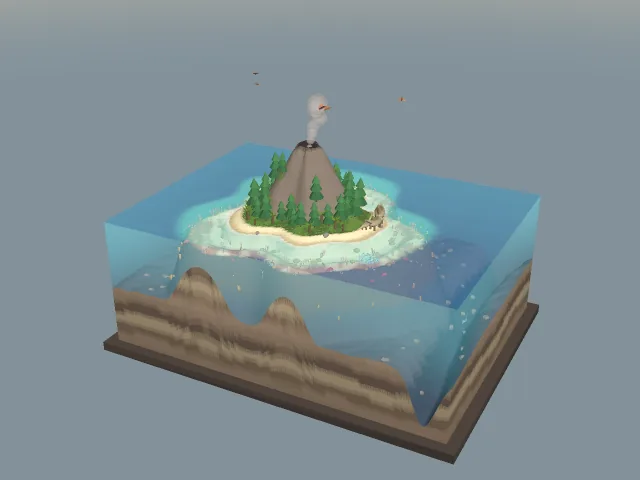
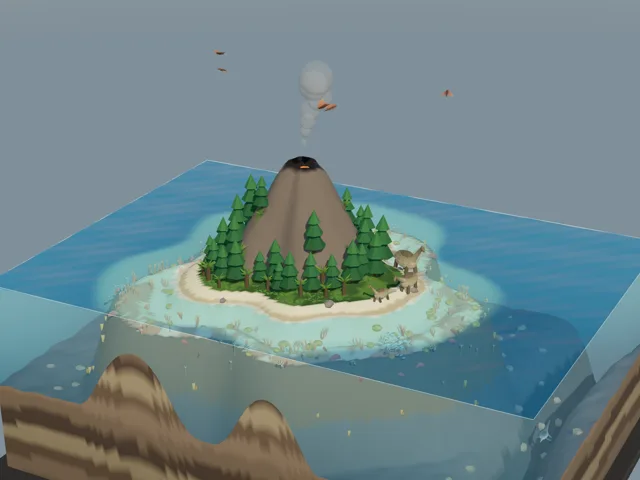
prehistoric-island: fix crater, beach and trench views after real-GPU review
On a real GPU (Apple M4, Chrome) the first browser-check run passed 44 of 45;
the lava check failed because the lava really could not be seen.

- Crater: the pool sat 0.7 m above a 7 m deep bowl and the camera looked in at
  24 degrees, so only a sliver showed, under the lowest smoke puff. Lava now
  floods the floor 2.6 m up (still 1.4 m below the lowest rim), smoke starts
  above the rim, the shot looks in at about 50 degrees. Emissive #ff5a1a x2.8
  washed out to pale apricot under ACES; now #ff4400 x2.0 (reads 255,147,68).
- Beach: the three plant-eaters swung +-0.26 rad on different phases with
  0.1 rad between them and walked into one another. Now about 11 m apart,
  nearly in step, +-0.18 rad.
- Trench: the shot was mostly the bank's cut face. It now looks down the
  trench from above the water off the front-right corner; the swimmer is in
  frame and the front-cut subject stays in the safe zone.
- Cover replaced with a real-GPU screenshot; SPEC records measured draw calls
  (56-64) and frame rate (60 fps desktop and phone viewport, headless).

diff --git a/prehistoric-island/src/core.js b/prehistoric-island/src/core.js
@@ -127,11 +127,12 @@ export function crown(p) {
 // ---- Creatures (all schematic shapes; loops close every CYCLE seconds) ----
 const TAU = Math.PI * 2;
 // Herd: three long-necked plant-eaters walking slowly up and down the east beach.
-export const HERD = [{ s: 0.9, th0: -0.28, size: 1.0, lag: 0 }, { s: 0.93, th0: -0.18, size: 0.8, lag: 0.7 }, { s: 0.88, th0: -0.08, size: 0.55, lag: 1.3 }];
+// Spaced about 11 m apart along the shore and walking nearly in step, so the three never run into one another.
+export const HERD = [{ s: 0.9, th0: -0.44, size: 1.0, lag: 0 }, { s: 0.92, th0: -0.10, size: 0.8, lag: 0.08 }, { s: 0.89, th0: 0.24, size: 0.55, lag: 0.16 }];
 const herdPoint = (th, s) => { const r = coastRadius(th) * s; return [ISLAND.cx + r * Math.cos(th), ISLAND.cz + r * Math.sin(th)]; };
 export function herdAt(i, t) {
   const a = HERD[i], w = Math.sin(TAU * mod(t) / CYCLE + a.lag);    // there and back once a cycle
-  const th = a.th0 + 0.26 * w, dir = Math.cos(TAU * mod(t) / CYCLE + a.lag) >= 0 ? 1 : -1;
+  const th = a.th0 + 0.18 * w, dir = Math.cos(TAU * mod(t) / CYCLE + a.lag) >= 0 ? 1 : -1;
   const [x, z] = herdPoint(th, a.s), [x2, z2] = herdPoint(th + 0.01 * dir, a.s);
   const heading = Math.atan2(z2 - z, x2 - x);
   const step = TAU * mod(t) / 1.6 + i;                                  // stride phase
@@ -139,7 +140,7 @@ export function herdAt(i, t) {
 }
 function nearHerdWalk(x, z) {
   let d = Infinity;
-  for (const a of HERD) for (let th = a.th0 - 0.32; th <= a.th0 + 0.32; th += 0.04) { const [hx, hz] = herdPoint(th, a.s); d = Math.min(d, Math.hypot(hx - x, hz - z)); }
+  for (const a of HERD) for (let th = a.th0 - 0.24; th <= a.th0 + 0.24; th += 0.04) { const [hx, hz] = herdPoint(th, a.s); d = Math.min(d, Math.hypot(hx - x, hz - z)); }
   return d;
 }
 // Flyers: five gliding reptiles circling the volcano.
@@ -236,7 +237,9 @@ export const shotPose = {
   },
   trench(t, aspect, u) {
     const k = tall(aspect);
-    return { position: [70 - 6 * u, -28 + 2 * k, 124 + 18 * k], target: [74, -49 + 2 * k, 10], up: Y, fov: widen(40, aspect, 56) };
+    // From above the water off the front-right corner, looking down the trench as it runs back into the block,
+    // so the trench and its swimmer fill the frame instead of the cut face of the bank beside it.
+    return { position: [128 - 8 * u, 18 + 4 * k, 104 + 18 * k], target: [80, -56 + 2 * k, 18], up: Y, fov: widen(42, aspect, 58) };
   },
   beach(t, aspect, u) {
     // Out over the lagoon east of the beach, low, looking up the shore at the herd with the forest and cone behind.
@@ -245,8 +248,9 @@ export const shotPose = {
     return { position, target: [lead[0] - 6, lead[1] + 6 + 3 * k, lead[2] - 2], up: Y, fov: widen(42, aspect, 58) };
   },
   summit(t, aspect, u) {
-    const k = tall(aspect), target = [CRATER[0] + 4, CRATER[1] + 6 - 2 * k, CRATER[2] + 6];
-    return { position: around((118 + 14 * u) * D, (24 + 4 * k) * D, 112 + 30 * k, target), target, up: Y, fov: widen(40, aspect, 56) };
+    // Steep enough to see down into the 7 m deep crater and its lava pool; a low angle only shows the rim.
+    const k = tall(aspect), target = [CRATER[0] + 2, CRATER[1] + 3 - 2 * k, CRATER[2] + 4];
+    return { position: around((118 + 14 * u) * D, (50 + 4 * k) * D, 96 + 30 * k, target), target, up: Y, fov: widen(40, aspect, 56) };
   },
 };
 export function shotPoseAt(key, t, aspect) {

diff --git a/prehistoric-island/src/world.js b/prehistoric-island/src/world.js
@@ -317,8 +317,10 @@ export function buildIsland(seed = 7) {
   const water = buildWater(); root.add(water.surface, ...water.walls, water.line);
 
   // Crater: lava pool and smoke.
-  const lavaY = height(CRATER[0], CRATER[2]) + 0.7;
-  const lava = mesh('lava', 'lava', 'emissive', new THREE.CircleGeometry(2.9, 18).rotateX(-Math.PI / 2).translate(CRATER[0], lavaY, CRATER[2]), new THREE.MeshStandardMaterial({ color: '#100604', emissive: '#ff5a1a', emissiveIntensity: 2.8, roughness: 0.6 }));
+  // The crater is a bowl (floor 34.6 m, 37.7 m at 3 m out, rim 38.6 m at its lowest): 2.6 m of lava floods the floor
+  // about 2.5 m out and the bowl walls trim the disc's edge, still well below the rim.
+  const lavaY = height(CRATER[0], CRATER[2]) + 2.6;
+  const lava = mesh('lava', 'lava', 'emissive', new THREE.CircleGeometry(3.4, 20).rotateX(-Math.PI / 2).translate(CRATER[0], lavaY, CRATER[2]), new THREE.MeshStandardMaterial({ color: '#100604', emissive: '#ff4400', emissiveIntensity: 2.0, roughness: 0.6 }));
   const smoke = instanced('smoke', 'smoke', 'air', new THREE.IcosahedronGeometry(1, 1), new THREE.MeshStandardMaterial({ color: '#a8a199', roughness: 1, transparent: true, opacity: 0.3, depthWrite: false }), 7);
   smoke.renderOrder = 4;
   root.add(lava, smoke);
@@ -359,10 +361,10 @@ export function buildIsland(seed = 7) {
     // Waves (only near the surface; the island hides the water under it).
     for (let i = 0; i < surfPos.count; i++) surfPos.setY(i, WATER + waveAt(surfPos.getX(i), surfPos.getZ(i), t));
     surfPos.needsUpdate = true; water.surface.geometry.computeVertexNormals();
-    // Smoke: seven puffs on staggered loops of 7 s.
+    // Smoke: seven puffs on staggered loops of 7 s, born above the rim so they never sit on the lava.
     for (let k = 0; k < 7; k++) {
-      const u = mod(t / 7 + k / 7, 1), r = lerp(1.6, 6.5, u);
-      place(smoke, k, [CRATER[0] + 3 * u * Math.sin(k * 2.1) + 6 * u, lavaY + 2 + 28 * u, CRATER[2] + 3 * u * Math.cos(k * 2.1) - 2 * u], k, r);
+      const u = mod(t / 7 + k / 7, 1), r = lerp(1.2, 6.5, u);
+      place(smoke, k, [CRATER[0] + 3 * u * Math.sin(k * 2.1) + 6 * u, lavaY + 9 + 26 * u, CRATER[2] + 3 * u * Math.cos(k * 2.1) - 2 * u], k, r);
     }
     smoke.instanceMatrix.needsUpdate = true;
     // Herd.

diff --git a/prehistoric-island/SPEC.md b/prehistoric-island/SPEC.md
@@ -5,10 +5,10 @@
 ## 场景、配色与构图
 
 - 展台：x −96…96、z −96…44（前切面在 z = 44），底面 y = −72，外加 6 m 宽的底座。海面 y = 0。所有尺寸都是场景里的米，示意，不按真实比例。
-- 岛：中心 (−6, −14)，海岸线半径约 38 m 并带起伏；山顶约 40 m，山顶有一个火山口（坑底约 34.6 m），坑里一小池熔岩、冒烟。海岸一圈沙滩，往外是水深约 2–8 m 的礁盘，礁盘外缘有一道礁脊，然后陡坎落到约 −38 m 的深海平原；东侧（x ≈ 79，沿 z 弯曲）一条深到约 −60 m 的海沟，从展台前切面一直通到后切面。
+- 岛：中心 (−6, −14)，海岸线半径约 38 m 并带起伏；山顶约 40 m，山顶有一个火山口（坑底约 34.6 m），坑里一池熔岩（液面比坑底高 2.6 m，铺满坑底约 2.5 m 半径，离坑沿最低处还有 1.4 m），烟从坑沿以上冒起，不压在熔岩上。海岸一圈沙滩，往外是水深约 2–8 m 的礁盘，礁盘外缘有一道礁脊，然后陡坎落到约 −38 m 的深海平原；东侧（x ≈ 79，沿 z 弯曲）一条深到约 −60 m 的海沟，从展台前切面一直通到后切面。
 - 植物：针叶树 38 棵、苏铁状的树 24 棵、蕨丛 194 丛，只长在岛上干地，不上沙滩、不进火山口、不挡恐龙走的那段岸。礁盘和陡坎上：枝状珊瑚 70、团块珊瑚 50、海扇 30、海百合 40、管状海绵 30；沙滩和深海底有 60 块石头。
-- 动物（都是简单几何体拼的示意造型）：3 只长颈植食恐龙沿东岸来回走；5 只翼龙绕火山口盘旋；2 只蛇颈龙类，一只在西侧深水，一只沿海沟巡游；14 只菊石在礁盘外缘漂；两群鱼共 130 条在礁盘边上来回。每条动物路线 48 秒首尾相接。
-- 颜色全部是顶点色（sRGB 写、Three.js 转线性），不用 `instanceColor`。地面：沙 `#e6d3a3`、湿沙 `#b8a479`、草 `#55702f`、林 `#3e5628`、岩 `#73665a`、火山灰 `#3b3533`、礁盘沙 `#d9caa0`、礁脊 `#b98a6a`、深海泥 `#5d6066` / `#3f4a55`；切面岩层五色交替 `#8a7560` `#6f5c4a` `#9c8a6c` `#5a4a3e` `#7d6a55`，越深越暗；水按水深从 `#58cfc3` 渐到 `#1c6b97`，水体切面从 `#5fc3d4` 渐到 `#0b2c4e`，都半透明（面 0.5、切面 0.34），不写深度；熔岩底色近黑、自发光 `#ff5a1a` 强度 2.8。界面底 `#1a2430`、文字 `#f2eee6`、强调 `#7fe0c8`。
+- 动物（都是简单几何体拼的示意造型）：3 只长颈植食恐龙沿东岸来回走，三只间隔约 11 m、几乎同步，不会走到一起；5 只翼龙绕火山口盘旋；2 只蛇颈龙类，一只在西侧深水，一只沿海沟巡游；14 只菊石在礁盘外缘漂；两群鱼共 130 条在礁盘边上来回。每条动物路线 48 秒首尾相接。
+- 颜色全部是顶点色（sRGB 写、Three.js 转线性），不用 `instanceColor`。地面：沙 `#e6d3a3`、湿沙 `#b8a479`、草 `#55702f`、林 `#3e5628`、岩 `#73665a`、火山灰 `#3b3533`、礁盘沙 `#d9caa0`、礁脊 `#b98a6a`、深海泥 `#5d6066` / `#3f4a55`；切面岩层五色交替 `#8a7560` `#6f5c4a` `#9c8a6c` `#5a4a3e` `#7d6a55`，越深越暗；水按水深从 `#58cfc3` 渐到 `#1c6b97`，水体切面从 `#5fc3d4` 渐到 `#0b2c4e`，都半透明（面 0.5、切面 0.34），不写深度；熔岩底色近黑、自发光 `#ff4400` 强度 2.0（`#ff5a1a` 2.8 在 ACES 色调映射后被冲成淡杏色，2026-11-24 真显卡复核时改）。界面底 `#1a2430`、文字 `#f2eee6`、强调 `#7fe0c8`。
 - 光：一盏投影方向光（太阳，从右前上方，前切面受光），半球光，用同一条天空渐变烘焙的 PMREM 环境。天空是着色器画的渐变穹顶，没有图片。
 - 每个网格带 `layer`（ground / plant / animal / water / emissive / air）和 `role`（`src/world.js` 的 `ROLES` 白名单，说明用途），没有无用途的件。
 - 构图（由 `tests/core.test.cjs` 投影检查）：每个机位的主体在桌面 1440×900 落在 x 0.04–0.96、y 0.08–0.80；手机 390×664 落在 x 0.04–0.96、y 0.25–0.68（上方让出标题和动物清单，下方让出说明和两排按钮）。
@@ -20,17 +20,17 @@
 | 1 | `overview` 岛屿全景 | 整块展台斜上方俯视 | 0–8 | 3 |
 | 2 | `cutaway` 水下剖面 | 平视前切面：岛、礁盘边、陡坎、深海、海沟 | 8–16 | 11.5 |
 | 3 | `reef` 礁盘 | 贴水面隔着切面看礁盘和鱼群 | 16–24 | 19.5 |
-| 4 | `trench` 海沟 | 海沟一侧的切面，海沟里的蛇颈龙类 | 24–32 | 27.5 |
+| 4 | `trench` 海沟 | 从前右角水面上方俯看海沟往展台里延伸，海沟里的蛇颈龙类 | 24–32 | 27.5 |
 | 5 | `beach` 海滩 | 东岸低机位，恐龙、树林、火山 | 32–40 | 35.5 |
-| 6 | `summit` 火山口 | 绕火山口，熔岩、烟、翼龙 | 40–48 | 43.5 |
+| 6 | `summit` 火山口 | 约 50° 俯看进火山口（坑深 7 m，低角度只看得到坑沿），熔岩、烟、翼龙 | 40–48 | 43.5 |
 
 镜头：连播中相邻机位 1.6 秒缓动滑过去；进入海滩、火山口两个机位经 0.32 秒黑场切换（直接滑过去会穿过树林或水体切面）。按钮只动相机，不改场景时间；停留在一个机位时镜头来回往返，不会弹回起点。拖动画面进入自由环绕，绕着当前机位正在看的那一点转，按下那一下画面不动。
 
 ## 预算（照实写）
 
 - 三角形：142,964 个（`tests/scene.test.cjs` 在 Node 里按场景图逐个网格数出来，含实例数）。对象 34 个（33 个网格、1 条水线，多数网格是实例化的）。
-- 绘制次数：**没有测**。估算是每帧约 35 次（34 个对象加天空）加阴影一遍约 25 次，约 60 次，预算 ≤ 160。估算方法写在 `scene.test` C3 里；真实数字要在有 GPU 的浏览器里用 `browser-check.cjs` 读 `renderer.info`。
-- 帧率：**没有测，本文档不给帧率结论**。制作环境没有显卡，也起不了浏览器。目标是桌面和手机竖屏 30 fps 以上；像素比上限 1.5，阴影贴图桌面 2048²、手机 1024²；暂停且镜头不动时不重绘。
+- 绘制次数：2026-11-24 在 Mac mini（Apple M4，Chrome，ANGLE Metal）用 `browser-check.cjs` 读 `renderer.info`，六个机位每帧 56–64 次（含阴影一遍），预算 ≤ 160。`renderer.info` 记的三角形约 26 万，比上面 Node 里数的多，是阴影那一遍也算进去了。
+- 帧率：同一台机器、无头 Chrome、负载约 2.6，连播中 5 秒平均：桌面 1440×900（像素比 1.5）60.1 fps，手机视口 390×664（像素比 2）60.1 fps，都到了刷新率上限。手机真机没测。目标是桌面和手机竖屏 30 fps 以上；像素比上限 1.5，阴影贴图桌面 2048²、手机 1024²；暂停且镜头不动时不重绘。
 - 单文件 ≤ 1 MB（目前约 627 KB，含 Three.js 0.186.1）。
 
 ## 验收条目
@@ -50,12 +50,11 @@
 
 ## 截图和预览
 
-- `tools/browser-check.cjs`：真实 Chrome 截 12 张固定机位图（6 个机位 × 桌面、手机）加 `report.json`，并读画面像素、测拖动、测布局。**这个脚本是照 orbital-station 改的，还没有在任何机器上跑过**，像素阈值是没有 GPU 时先写下的猜测，第一次跑时要校准。
-- `tools/preview.cjs`：Node 里的 CPU 构图预览，用的是同一套场景图和机位函数，平面着色，没有阴影、没有反射、没有色调映射。只能用来看构图和遮挡，不是 WebGL 截图。首页封面 `covers/prehistoric-island.webp` 也是用它的 `--cover` 出的全景机位（4:3），不是从真实浏览器截的；在有 GPU 的机器上可以换成真实截图。
+- `tools/browser-check.cjs`：真实 Chrome 截 12 张固定机位图（6 个机位 × 桌面、手机）加 `report.json`，并读画面像素、测拖动、测布局。2026-11-24 第一次在真显卡上跑：45 项全过。像素阈值没改；第一次跑时熔岩那条不过，查下来是熔岩真的看不到、颜色也太淡，改的是页面不是阈值。
+- `tools/preview.cjs`：Node 里的 CPU 构图预览，用的是同一套场景图和机位函数，平面着色，没有阴影、没有反射、没有色调映射。只能用来看构图和遮挡，不是 WebGL 截图。首页封面 `covers/prehistoric-island.webp` 已换成真显卡下全景机位的截图（640×480）。
 
 ## 已知还没验证的
 
-- 真实 GPU 下的样子：半透明水体和切面的排序、阴影是否有条纹、熔岩亮不亮、天空和水色是否和预览一致。
-- 绘制次数和帧率（见上）。
+- 真显卡下的样子 2026-11-24 已看过 12 张截图：水体和切面排序、阴影都没看到问题。切面岩层色带边缘有锯齿，是地形网格精度的问题，暂时没改。
 - 手机真机的触屏拖动、发热。
 - 根目录 `tools/csp-check.cjs` 没有跑（要 Playwright 浏览器）。

diff --git a/prehistoric-island/README.md b/prehistoric-island/README.md
@@ -16,7 +16,7 @@ node tools/browser-check.cjs    # real Chrome: 12 fixed-view screenshots, layout
 node tools/preview.cjs          # CPU composition preview for machines without WebGL (not a rendered screenshot)
 ```
 
-Source entry: run `node tools/serve.cjs . 8941` and open `http://127.0.0.1:8941/dev.html`. Fixed views use `?view=overview` or `?view=1` to `?view=6` and pause at that shot's still time. `window.__PLAYTEST__` provides `ready`, `snapshot()`, `setView(name)`, `reset()`, `setSeed(n)` and `step(ms)`. See [SPEC.md](SPEC.md) for the acceptance criteria and for what has not been verified yet (the look on a real GPU, draw calls and frame rate). Three.js is pinned at 0.186.1; its MIT licence is kept in the generated page.
+Source entry: run `node tools/serve.cjs . 8941` and open `http://127.0.0.1:8941/dev.html`. Fixed views use `?view=overview` or `?view=1` to `?view=6` and pause at that shot's still time. `window.__PLAYTEST__` provides `ready`, `snapshot()`, `setView(name)`, `reset()`, `setSeed(n)` and `step(ms)`. See [SPEC.md](SPEC.md) for the acceptance criteria and for what has been measured on a real GPU and what is still unverified (phone hardware). Three.js is pinned at 0.186.1; its MIT licence is kept in the generated page.
 
 By 我的AI小木屋 (WeChat official account) · GitHub @AliceLJY
 

diff --git a/prehistoric-island/README_CN.md b/prehistoric-island/README_CN.md
@@ -16,7 +16,7 @@ node tools/browser-check.cjs    # 真实 Chrome：12 张固定机位截图、布
 node tools/preview.cjs          # 没有 WebGL 的机器上看构图的 CPU 预览（不是渲染截图）
 ```
 
-源码入口：`node tools/serve.cjs . 8941`，打开 `http://127.0.0.1:8941/dev.html`。固定机位用 `?view=overview` 或 `?view=1` 到 `?view=6`，进入后暂停在该机位的定格时刻。`window.__PLAYTEST__` 提供 `ready`、`snapshot()`、`setView(名字)`、`reset()`、`setSeed(n)`、`step(ms)`。验收条目和还没验证的部分（真实显卡下的样子、绘制次数、帧率）见 [SPEC.md](SPEC.md)。Three.js 锁定 0.186.1，MIT 许可保留在生成的页面里。
+源码入口：`node tools/serve.cjs . 8941`，打开 `http://127.0.0.1:8941/dev.html`。固定机位用 `?view=overview` 或 `?view=1` 到 `?view=6`，进入后暂停在该机位的定格时刻。`window.__PLAYTEST__` 提供 `ready`、`snapshot()`、`setView(名字)`、`reset()`、`setSeed(n)`、`step(ms)`。验收条目和真显卡上的实测结果和还没验证的部分（手机真机）见 [SPEC.md](SPEC.md)。Three.js 锁定 0.186.1，MIT 许可保留在生成的页面里。
 
 我的AI小木屋（公众号）· GitHub @AliceLJY
 
